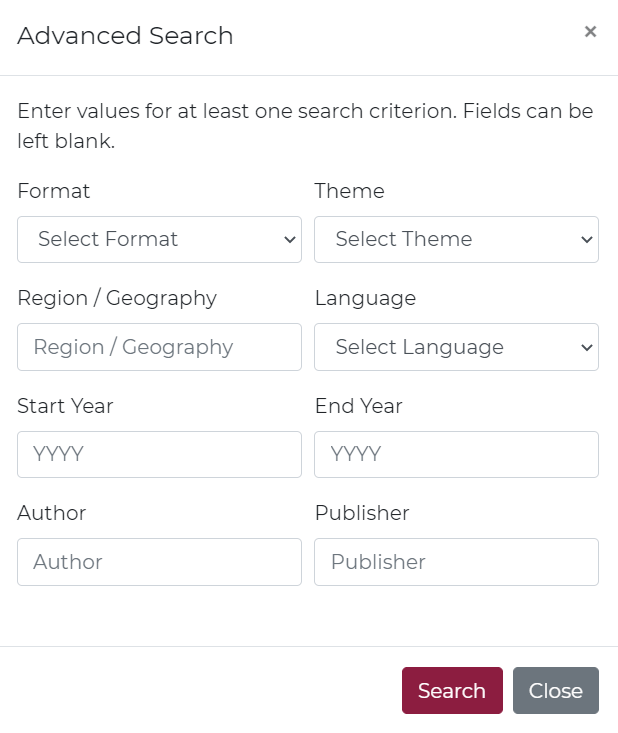
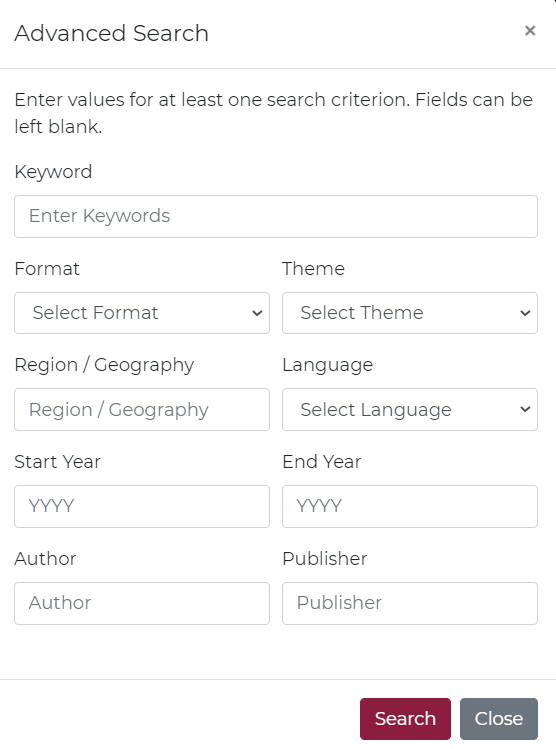
update advanced search
add keyword

diff --git a/main.js b/main.js
@@ -1070,6 +1070,7 @@ function getRowData(row) {
     // create an empty array for search strings
     var searchStrings = [];
     // get the values of the boxes from the advanced search modal
+    var keyVal = $("#key").val();
     var themeVal = $("#theme").val();
     var langVal = $('#language').val();
     var geoVal = $("#location").val();
@@ -1078,14 +1079,21 @@ function getRowData(row) {
     var pubVal = $('#publisher').val();
     var startYearVal = $("#startYear").val();
     var endYearVal = $("#endYear").val();
-    console.log(themeVal, langVal, geoVal, authorVal, pubVal, startYearVal, endYearVal);
+    // Title, geo, theme, date, publisher, author, lang, tags  
+    console.log(keyVal, themeVal, langVal, geoVal, authorVal, pubVal, startYearVal, endYearVal);
     // if the search boxes are blank print error message
-    if (themeVal == 'Select Theme' && langVal == 'Select Language' && geoVal == "" && authorVal == "" 
+    if (keyVal == "" && themeVal == 'Select Theme' && langVal == 'Select Language' && geoVal == "" && authorVal == "" 
       && pubVal == "" && startYearVal == "" && endYearVal == "" && formatVal == 'Select Format') {
       alert('Please select or enter a value for at least one search field.')
     } else if (startYearVal != "" && endYearVal == "" || startYearVal == "" && endYearVal != "") {
       alert('Please enter a value for both Start Year and End Year');
     } else {
+       if (keyVal != "") {              
+        var keyString = "(TITLE LIKE " + "'%" + keyVal + "%' OR GEO LIKE " + "'%" + keyVal + "%' OR THEME LIKE " + "'%" + keyVal + "%'" +
+        " OR DATE LIKE " + "'%" + keyVal + "%' OR PUBLISHER LIKE " + "'%" + keyVal + "%' OR AUTHOR LIKE " + "'%" + keyVal + "%'" +
+        " OR LANG LIKE " + "'%" + keyVal + "%' OR TAGS LIKE " + "'%" + keyVal + "%')"; 
+        searchStrings.push(keyString);                      
+      }		
       if (themeVal != 'Select Theme') {              
         var themeString = "THEME = " + "'" + themeVal + "'"; 
         searchStrings.push(themeString);                      

diff --git a/index.html b/index.html
@@ -101,6 +101,12 @@
       <div class="modal-body">
         <p>Enter values for at least one search criterion. Fields can be left blank.</p>
         <form>
+    <div class="form-row">      
+    <div class="form-group col-md-12">  
+     <label for="format">Keyword</label>
+     <input type="text" class="form-control" id="key" placeholder="Enter Keywords">
+    </div>  
+    </div>       
    <div class="form-row">      
     <div class="form-group col-md-6">  
      <label for="format">Format</label>
